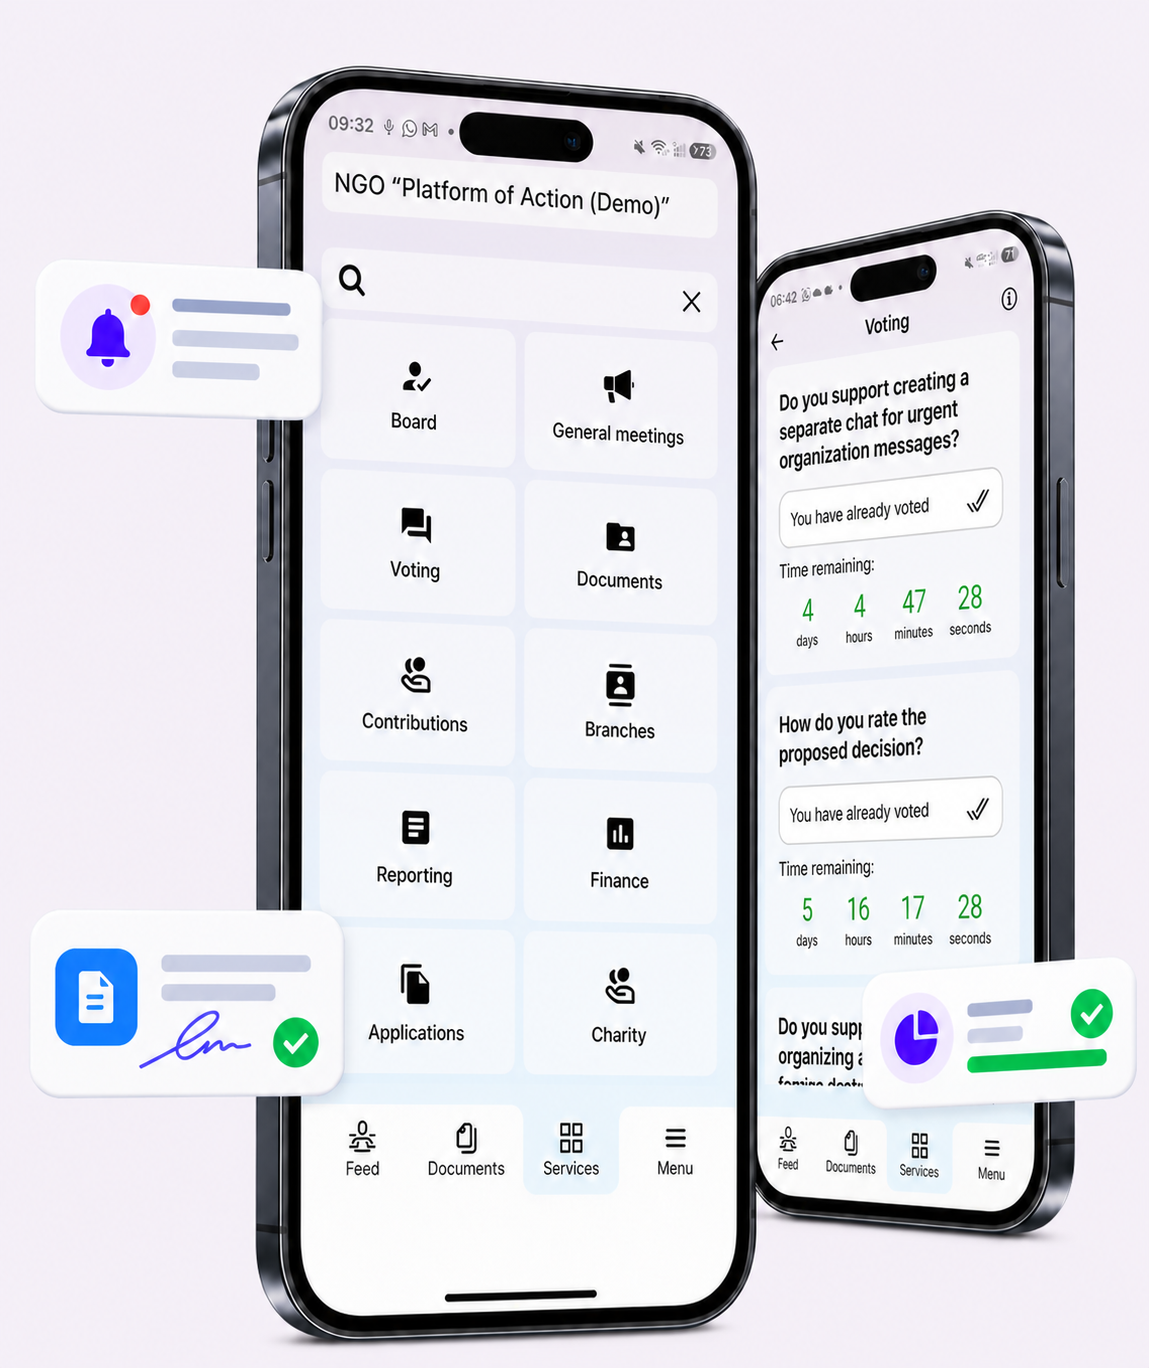
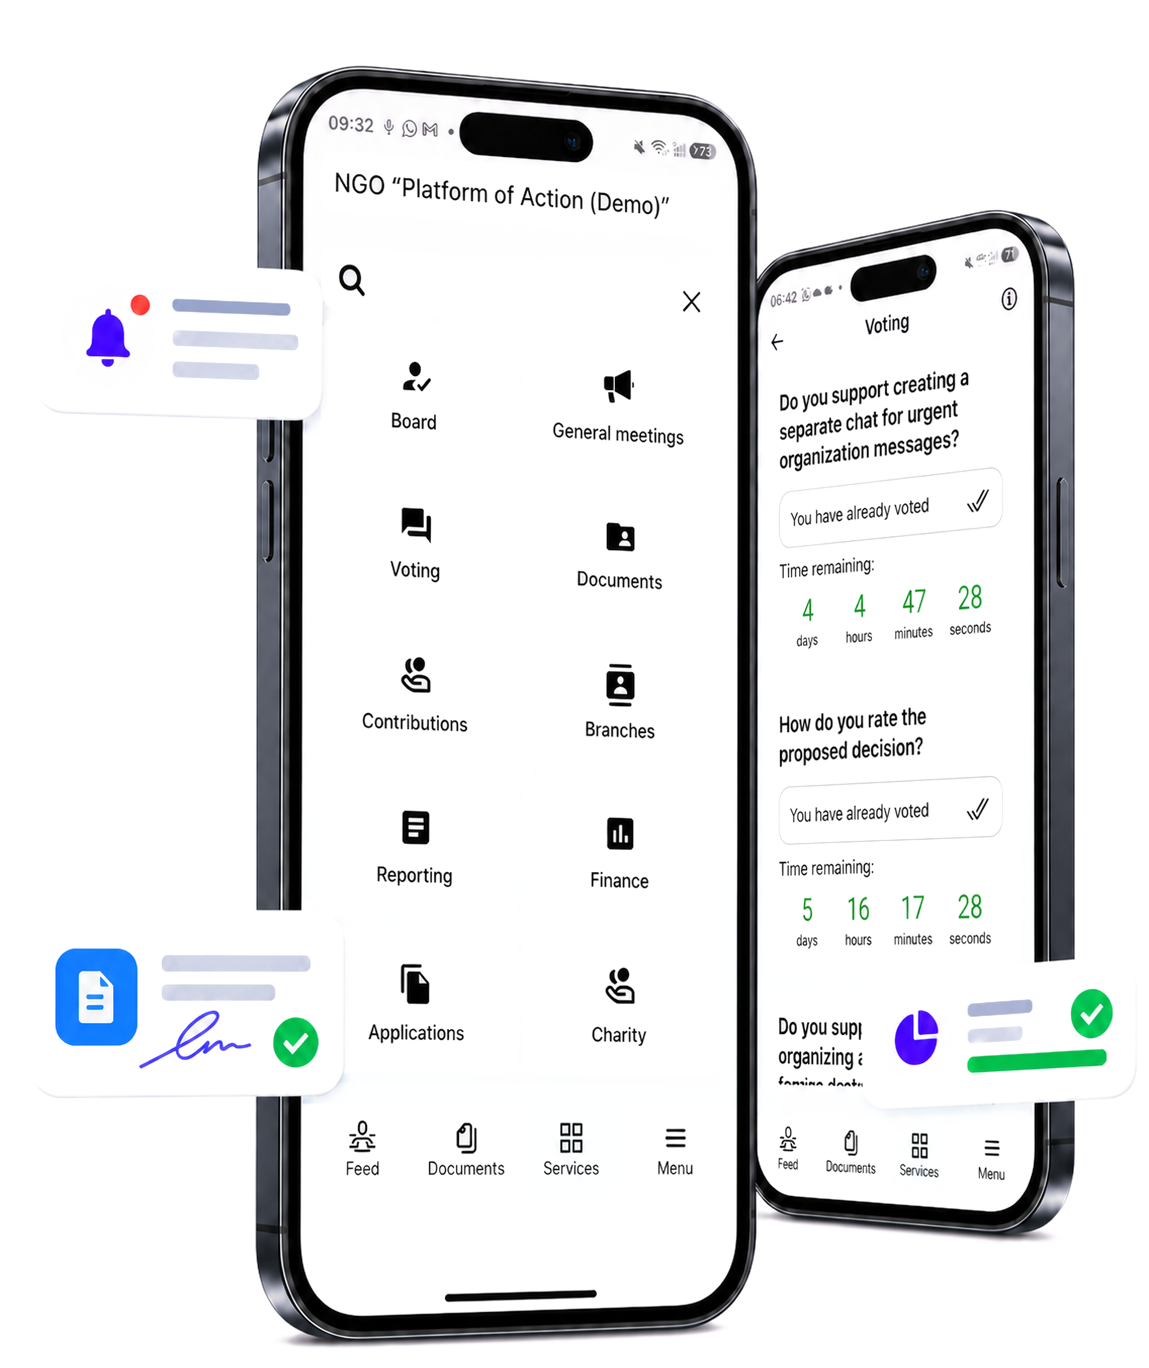
Make landing visuals transparent

diff --git a/src/assets/style.scss b/src/assets/style.scss
@@ -1687,9 +1687,8 @@ ul {
 }
 
 .oo-feature-media {
-  overflow: hidden;
-  border-radius: 24px;
-  background: linear-gradient(145deg, #dcebf2, #e7dbea);
+  overflow: visible;
+  background: transparent;
 
   > img {
     display: block;
